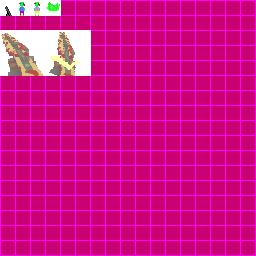
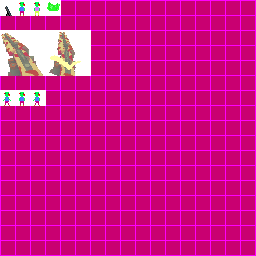
Can render images

Changed region(s): [[0.0, 0.3438, 0.1875, 0.4375]]

diff --git a/game.js b/game.js
@@ -3,34 +3,39 @@ import { Texture } from './texture.js';
 import { Quad } from './quad.js';
 
 let gl;
+let referenceStr = `ABCDEFGHIJKLMNOPQRSTUVWXYZ     
+0123456789`;
 
 class Game {
-	npc = [];
-	grasses = [];
-	keysdown = new Array(256).fill(false);
-	fov = 70;
-	playerPos = [0, -2.0, -0.7];
-	whiteColor = glMatrix.vec4.clone([1.0, 1.0, 1.0, 1.0]);
-	z = -3.0;
-	gun = [45.5, 42, 0, 31.5];
-	zScroll = this.z;
+	npc = []
+	grasses = []
+	keysdown = new Array(256).fill(false)
+	fov = 70
+	playerPos = [0, -2.0, -0.7]
+	whiteColor = glMatrix.vec4.clone([1.0, 1.0, 1.0, 1.0])
+	z = -3.0
+	gun = [45.5, 42, 0, 31.5]
+	npcsAnim = [14.5, 15.5, 0, 90]
+	zScroll = this.z
+	GAME_ENDS = -512
 	start = () => {
 		this.canvas = document.querySelector('#game');
 		gl = this.canvas.getContext('webgl');
 		this.sheetTexture = Texture.load('res/sheet.png', 256, 256);
 		this.groundTexture = Texture.load('res/ground.png', 256, 256);
+		this.miscTexture = Texture.load('res/misc.png', 256, 256);
 		this.quad = new Quad(new Shader(vsCode, fsCode));
 
 		for (let i = 0; i < 10000; i++) {
 			let x = (Math.random()*126);
 			x = (parseInt(x) % 2 == 0) ? x * -1.0 : x * 1.0;
-			this.npc.push([x, -3.0, (Math.random() * -512)]);
+			this.npc.push([x, -3.0, (Math.random() * this.GAME_ENDS)]);
 		}
 		for (let i = 0; i < 100; i++) glMatrix.vec3.add(this.npc[i], this.npc[i], [-2.8, 0.0, -30.0]);
 		for (let i = 0; i < 1000; i++) {
 			let x = (Math.random()*126);
 			x = (parseInt(x) % 2 == 0) ? x * -1.0 : x * 1.0;	
-			this.grasses.push([x, 12.0, (Math.random() * -512)]);
+			this.grasses.push([x, 12.0, (Math.random() * this.GAME_ENDS)]);
 		}
 
 		window.addEventListener('keydown', this.onKeydown);
@@ -50,40 +55,63 @@ class Game {
 	}
 
 	lastTime = Date.now();
-	unprocessedFrames = 0.0;
+	unprocessedFrames = 0.0
 	animate = (time = 0) => {
 		if (!this.sheetTexture.img) return;
 		let now = Date.now();
 		this.unprocessedFrames += (now - this.lastTime) * 60.0 / 1000.0;
 		if (this.unprocessedFrames > 10.0) this.unprocessedFrames = 10.0;
+		this.lastTime = now;
 		while (this.unprocessedFrames > 1.0) {
 			this.tick(time);
 			this.unprocessedFrames -= 1.0;
 		}
-		this.render(time);
+			this.render(this.unprocessedFrames);
 		window.requestAnimationFrame(this.animate);
 	}
 
-	tick = () => {
-		let speed = 0.06;
-		if (this.keysdown[87]) {
+	tc = 0
+	tick = (time) => {
+		this.tc++;
+		let animFrame = (parseInt(this.tc / 30)) % 2;
+		// console.log(animFrame);
+		this.npcsAnim[2] = 16 * animFrame;
+		let speed = 0.6;
+		// if (this.keysdown[87]) {
 			this.playerPos[2] += speed;
 			this.z -= speed;
-		}
+		// }
 		if (this.keysdown[83]) {
-			this.z += speed;
 			this.playerPos[2] -= speed;
+			this.z += speed;
 		}
 		if (this.keysdown[32]) {
 			this.gun = [45.5, 42, 45, 31.5];
 		}
-		// if (this.z > -3.0 || this.playerPos[2] < -0.7) {
-		// 	this.z = -3.0;
-		// 	this.playerPos[2] = -0.7;
-		// }
+		if (this.z > -3.0 || this.playerPos[2] < -0.7) {
+			this.z = -3.0;
+			this.playerPos[2] = -0.7;
+		}
 		if (this.playerPos[1] > -2.0) this.playerPos[1] = 0.0;
 		if (!this.keysdown[32]) 
 			this.gun = [45.5, 42, 0, 31.5];
+		
+	}
+
+	drawString = (str, cameraMatrix, whiteColor, x, y, z) => {
+		str = str.toUpperCase();
+		if (x < 0) x *= -1;
+		else x *= 1;
+		for (let i = 0; i < str.length; i++) {
+			let index = referenceStr.indexOf(str.charAt(i));
+			let uo = index % 32;
+			let vo = 24;
+			if (index > 25) {
+				vo = vo + 8.1;
+				// uo -= 8;
+			}
+			this.quad.renderString(glMatrix.vec3.transformMat4(glMatrix.vec3.create(), [x * (i + 1) / 1.6, y, z], cameraMatrix), 8, 8, 8 * uo, vo, whiteColor);
+		}
 	}
 
 	render = (time = 0) => {
@@ -116,12 +144,15 @@ class Game {
 		this.quad.setCamera(viewMatrix, screenMatrix);
 		this.quad.setTexture(this.sheetTexture);
 		for (let i = 0; i < 100; i++) {
-			this.quad.render(glMatrix.vec3.transformMat4(glMatrix.vec3.create(), this.npc[i], cameraMatrix), 14.5, 15.5, 16, 0, whiteColor);
+			this.quad.render(glMatrix.vec3.transformMat4(glMatrix.vec3.create(), this.npc[i], cameraMatrix), this.npcsAnim[0], this.npcsAnim[1], this.npcsAnim[2], this.npcsAnim[3], whiteColor);
+			this.quad.render(glMatrix.vec3.transformMat4(glMatrix.vec3.create(), [0.0, -2.5, -30.0], cameraMatrix), this.npcsAnim[0], this.npcsAnim[1], this.npcsAnim[2], this.npcsAnim[3], whiteColor);
 		}
 		this.quad.renderPlayer(glMatrix.vec3.transformMat4(glMatrix.vec3.create(), [0, 1.0*0.5, this.z], cameraMatrix), this.gun[0], this.gun[1], this.gun[2], this.gun[3], whiteColor);
 		for (let i = 0; i < 1000; i++) {
 			this.quad.renderPlayer(glMatrix.vec3.transformMat4(glMatrix.vec3.create(), this.grasses[i], cameraMatrix), 13.5, 12.5, 45, 0, whiteColor);
 		}
+		this.quad.setTexture(this.miscTexture);
+		this.drawString('DEAD', cameraMatrix, whiteColor, 3, -10.5, this.z);
 	}
 }
 

diff --git a/quad.js b/quad.js
@@ -62,6 +62,24 @@ class Quad {
 		gl.drawElements(gl.TRIANGLES, 6, gl.UNSIGNED_SHORT, 0);
 	}
 
+	renderString = (pos, w, h, uo, vo, color) => {
+		this.objectMatrix = glMatrix.mat4.create();
+		this.textureMatrix = glMatrix.mat4.create();
+
+		glMatrix.mat4.translate(this.objectMatrix, this.objectMatrix, pos);
+		glMatrix.mat4.scale(this.objectMatrix, this.objectMatrix, [2 * 1.0, 2 * 1.0, 0.0]);
+		gl.uniformMatrix4fv(this.transformLocation, false, this.objectMatrix);
+
+		// console.log(this.texture.width)
+		glMatrix.mat4.scale(this.textureMatrix, this.textureMatrix, [1.0 / this.texture.width, 1.0 / this.texture.height, 0.0]);
+		glMatrix.mat4.translate(this.textureMatrix, this.textureMatrix, [uo * 1.0, vo * 1.0, 0.0]);
+		glMatrix.mat4.scale(this.textureMatrix, this.textureMatrix, [w, h, 0.0]);
+		gl.uniformMatrix4fv(this.textureLocation, false, this.textureMatrix);
+
+		gl.uniform4fv(this.colorLocation, color);
+		gl.drawElements(gl.TRIANGLES, 6, gl.UNSIGNED_SHORT, 0);
+	}
+
 	render = (pos, w, h, uo, vo, color) => {
 		this.objectMatrix = glMatrix.mat4.create();
 		this.textureMatrix = glMatrix.mat4.create();
